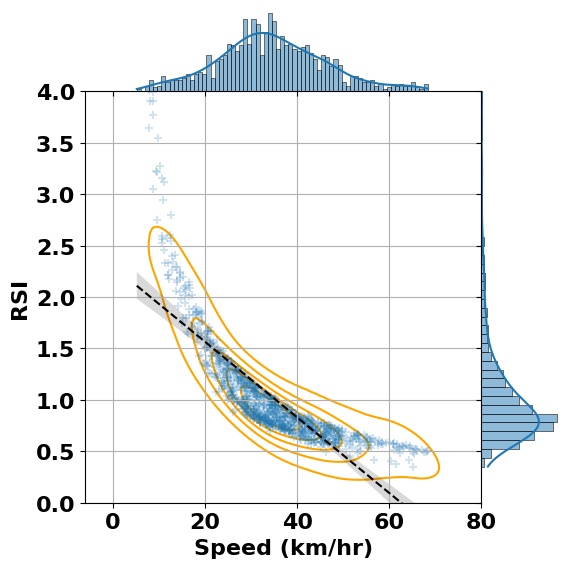
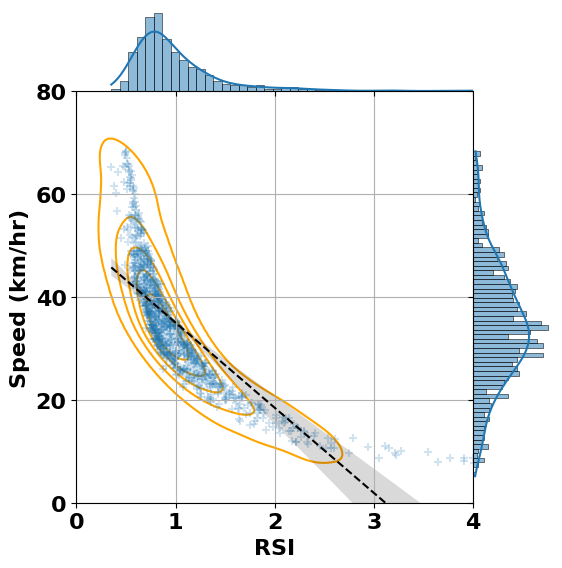
changed plots

diff --git a/library/plots.py b/library/plots.py
@@ -64,15 +64,16 @@ def plot_speed_rsi():
     # print(df_new.shape)
     bin=np.max([get_bin_count(df_new["speed"]),get_bin_count(df_new["rsi"])])
     # bin=100
-    g = sns.jointplot(data = df_new, x = "speed", y = "rsi", space=0, kind = "reg", marker = '+', scatter_kws = {'alpha':0.2}, line_kws = {'color':'k','linestyle':'dashed', 'lw':1.5}, marginal_kws=dict(bins=bin,fill=True))
+    g = sns.jointplot(data = df_new, x = "rsi", y = "speed", space=0, kind = "reg", marker = '+', scatter_kws = {'alpha':0.2}, line_kws = {'color':'k','linestyle':'dashed', 'lw':1.5}, marginal_kws=dict(bins=bin,fill=True))
     g.plot_joint(sns.kdeplot, color="orange", zorder=0, levels=6)
     # g.plot_marginals(sns.rugplot, color="r",height=-.05, clip_on=False)
     # plt.tight_layout()
     plt.grid()
-    plt.xlabel("Speed (km/hr)")
-    plt.ylabel("RSI")
-    plt.ylim(0,4)
-    plt.xticks(np.arange(0,100,20))
+    plt.xlabel("RSI")
+    plt.ylabel("Speed (km/hr)")
+    plt.xlim(0,4)
+    plt.ylim(0,80)
+    plt.yticks(np.arange(0,100,20))
     plt.savefig(output_dir+"rsi_speed.png", bbox_inches='tight')
     #plt.show()
     plt.close()
@@ -95,7 +96,7 @@ def plot_rash_driving():
         past_speeds.extend(past_speed)
         future_speeds.extend(future_speed)
     
-    sns.regplot(x=past_speeds, y=future_speeds, line_kws = {'color':'k','linestyle':'dashed', 'lw':2})
+    sns.regplot(x=past_speeds, y=future_speeds, line_kws = {'color':'k','linestyle':'dashed', 'lw':2},scatter_kws=dict(alpha=0.5))
     plt.xlabel("Prev Max Speed (km/hr)")
     plt.ylabel("Next Max Speed (km/hr)")
     plt.grid()
@@ -114,7 +115,7 @@ def plot_speed_loudness():
 
     # Create the main plot
     fig, ax = plt.subplots()
-    sns.regplot(x=df_new.speed, y=df_new.loudness, line_kws = {'color':'k','linestyle':'dashed', 'lw':2}, ax=ax)
+    sns.regplot(x=df_new.speed, y=df_new.loudness, line_kws = {'color':'k','linestyle':'dashed', 'lw':2}, ax=ax,scatter_kws=dict(alpha=0.5))
 
     ax.set_xlabel("Speed (km/hr)")
     ax.set_ylabel("Loudness (dB)")
